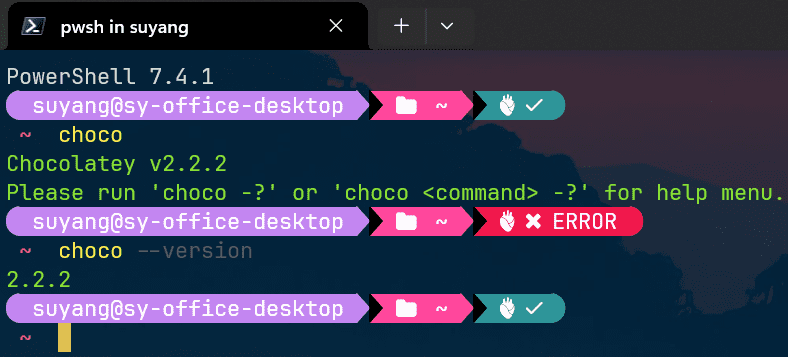
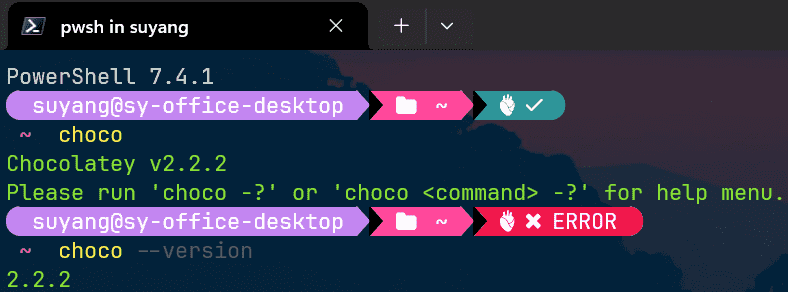
为包管理器博客添加查看版本的截图和内容

diff --git a/public/Blogs/博客内容/经验之谈/包管理器.html b/public/Blogs/博客内容/经验之谈/包管理器.html
@@ -158,11 +158,8 @@
     <h3 class="分区标题 分区3级标题">常用包管理器简介</h3>
     <ul class="分区列表">
       <li class="分区列表项">
-        Chocolatey
-        <p class="分区普通文本">
-          <span class="行内专业名词">Chocolatey</span>是专为 Windows
-          打造的现代软件自动化包管理器。
-        </p>
+        <span class="专业名词">Chocolatey</span>
+        <p class="分区普通文本">专为 Windows 打造的现代软件自动化包管理器。</p>
         <ul class="分区列表">
           <li class="分区列表项">
             <span class="官网对齐">官网：</span>
@@ -181,11 +178,8 @@
         </ul>
       </li>
       <li class="分区列表项">
-        Scoop
-        <p class="分区普通文本">
-          <span class="行内专业名词">Scoop</span>是专为 Windows
-          打造的命令行安装器。
-        </p>
+        <span class="专业名词">Scoop</span>
+        <p class="分区普通文本">专为 Windows 打造的命令行安装器。</p>
         <ul class="分区列表">
           <li class="分区列表项">
             <span class="官网对齐">官网：</span
@@ -204,7 +198,7 @@
         </ul>
       </li>
       <li class="分区列表项">
-        winget
+        <span class="专业名词">winget</span>
         <p class="分区普通文本">
           <span class="行内专业名词">Windows 程序包管理器</span
           >是一个全面的程序包解决方案，由一个命令行工具<span class="专业名词"
@@ -232,10 +226,10 @@
         </ul>
       </li>
       <li class="分区列表项">
-        npm
+        <span class="专业名词">npm</span>
         <p class="分区普通文本">
-          <span class="行内专业名词">npm</span>是专为 JavaScript
-          程序包打造的管理器，会随着<span class="行内专业名词">Node.js</span
+          专为 JavaScript 程序包打造的管理器，会随着<span class="行内专业名词"
+            >Node.js</span
           >一起安装。
         </p>
         <ul class="分区列表">
@@ -256,11 +250,9 @@
         </ul>
       </li>
       <li class="分区列表项">
-        pacman
+        <span class="专业名词">pacman</span>
         <p class="分区普通文本">
-          <span class="行内专业名词">pacman</span>是一个在Linux中<span
-            class="附加说明"
-            >也可用于 Windows</span
+          在Linux中<span class="附加说明">也可用于 Windows</span
           >管理软件包的实用程序。
         </p>
         <ul class="分区列表">
@@ -295,8 +287,8 @@
       安装<span class="行内专业名词">Chocolatey</span>
     </h3>
     <p class="分区普通文本">
-      在<span class="行内专业名词">Chocolatey</span>里，有 2
-      个页面都介绍了如何安装，二者的主要内容是一样的：
+      在<span class="行内专业名词">Chocolatey</span
+      >里，有两个页面都介绍了如何安装，二者的主要内容是一样的：
     </p>
     <ul class="分区列表">
       <li class="分区列表项">
@@ -456,6 +448,14 @@
         </pre>
       </li>
     </ol>
+    <p class="分区普通文本">安装完成后，运行命令以确认：</p>
+    <figure class="截图容器">
+      <img
+        src="/Images/Blogs/博客导航页/包管理器/Scoop-查看版本.png"
+        alt="Scoop 查看版本"
+      />
+    </figure>
+    <p class="分区普通文本">出现版本号，表示安装成功。</p>
   </article>
 
   <article class="正文分区">
@@ -481,6 +481,19 @@
         alt="微软应用商店-winget"
       />
     </figure>
+    <p class="分区普通文本">
+      在应用商店直接安装即可。完成后，可以运行命令以检查<span
+        class="行内专业名词"
+        >winget</span
+      >是否正确安装：
+    </p>
+    <figure class="截图容器">
+      <img
+        src="/Images/Blogs/博客导航页/包管理器/winget-查看版本.png"
+        alt="winget 查看版本"
+      />
+    </figure>
+    <p class="分区普通文本">出现版本号，表示安装成功。</p>
   </article>
 
   <article class="正文分区">
@@ -508,6 +521,17 @@
         alt="安装Node.js过程中安装npm"
       />
     </figure>
+    <p class="分区普通文本">
+      确保<span class="行内专业名词">npm</span
+      >也一同安装即可。安装完成后，运行命令以确认：
+    </p>
+    <figure class="截图容器">
+      <img
+        src="/Images/Blogs/博客导航页/包管理器/npm-查看版本.png"
+        alt="npm 查看版本"
+      />
+    </figure>
+    <p class="分区普通文本">出现版本号，表示安装成功。</p>
   </article>
 
   <article class="正文分区">
@@ -529,5 +553,13 @@
         >相关章节</a
       >。
     </p>
+    <p class="分区普通文本">安装完成后，运行命令以确认：</p>
+    <figure class="截图容器">
+      <img
+        src="/Images/Blogs/博客导航页/包管理器/pacman-查看版本.png"
+        alt="pacman 查看版本"
+      />
+    </figure>
+    <p class="分区普通文本">出现版本号，表示安装成功。</p>
   </article>
 </div>

diff --git a/public/Blogs/blog-index.css b/public/Blogs/blog-index.css
@@ -1472,6 +1472,10 @@ body {
   font-weight: 500;
 }
 
+.分区列表项 > .专业名词:first-child {
+  font-size: 1em;
+}
+
 :where(.分区2级标题, .分区3级标题) > .专业名词 {
   font-size: 0.75em;
   translate: 0 0.1em;
